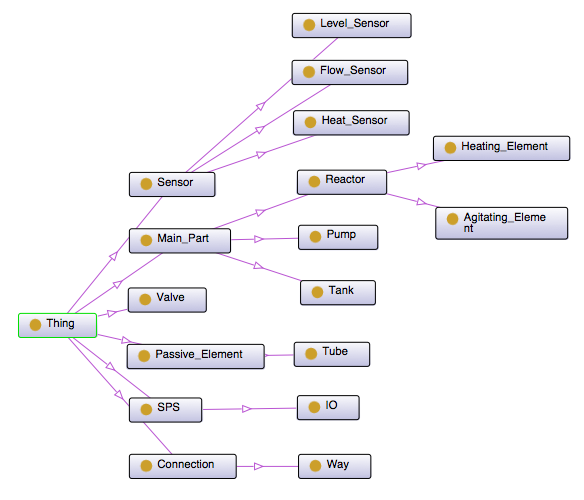
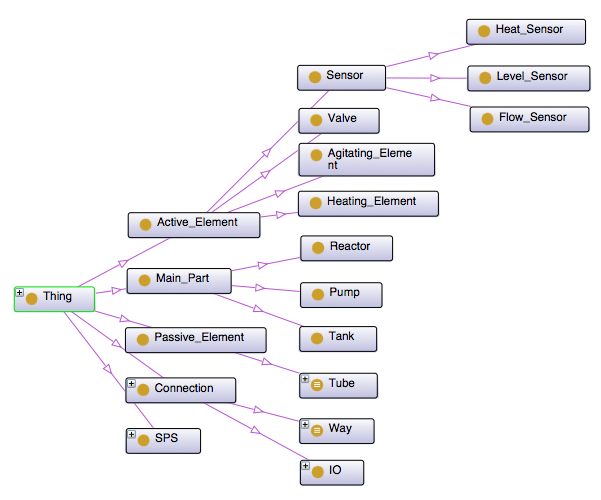
chapter 4 ontologie update

diff --git a/tex/chapter4.tex b/tex/chapter4.tex
@@ -151,38 +151,76 @@ Phase 3 Funktionale Elemente\\
 	Der nächste schritt war es die nicht funktionalen Grafikelemente durch Buttons in Form der gewünschten Elemente zu ersetzten.\\
 \\
 \textbf{Rezepterstellung}\\
+%todo Rezeperstellung
 
 \section{Ontology}
 Nachdem die Evaluierung der wichtigsten Aspekte im Kapitel Ontologie der Chargenprozessanlage in Hinsicht auf eine automatisierte Codegenerierung durchgeführt wurden, behandelt dieses Kapitel den Werdegang der Ontologie vom Ersten bis hin zum Finalem Design.\\
 \\
 Das Ziel der Ontologie ist es, die im laufe dieses Projekts aufgebaute Anlage in einer Art und Weise abbilden zu können, die es erlaubt daraus eine automatisierte Codegenerierung durchzuführen und dabei auf einem Abstraktionslevel zu bleiben um einen Großteil an in der Industrie vorkommenden Produktionsanlagen abbilden zu können.\\
 \\
-Da es den Rahmen dieser Arbeit sprengen würde, auf jeden einzelnen Gedankengang in der Erstellung der Ontologie einzugehen, werden nur die großen Revisionen der Ontologie genauer beschrieben.
+Da es den Rahmen dieser Arbeit sprengen würde, auf jeden einzelnen Gedankengang in der Erstellung der Ontologie einzugehen, werden nur die großen Revisionen der Ontologie genauer beschrieben.\\
+\\
+Zu aller erste werden alle Bauteile der Anlage in Kategorien eingeteilt.\\
+Tanks, Reaktoren und Pumpen sind die Hauptelemente dieser Anlage und werden deswegen auch in einer Gruppe zusammengefasst. Neben ihnen gibt es eine Gruppe an Bauteilen die etwas tun, hierzu gehören die Ventile, Sensoren, Heiz- und Rührstäbe. Die restlichen Elemente der Anlage sind Statische Objekte die einen Nutzen besitzen, jedoch keine Arbeit erledigen, daher fallen diese zusammen unter die Kategorie von Passiven Elementen. Zu diesem Zeitpunkt sind dies nur die Rohre.\\
+Eine Ausnahme dieser Gruppen ist die SPS welche etwas tut, daher an sich in Kategorie 2 Fallen würde, aber nicht direkt Teil der Anlage ist und daher auch als einzelstehendes Objekt einen Platz in der Ontologie findet.
+
+\begin{figure}[hbt!]
+  \centering
+  \includegraphics[width=0.6\textwidth]{graphics/implementation/Ontology_v1}
+  \caption{Erste Version der Ontologie}
+\end{figure}
+
+Verbindungen zwischen 2 Klassen werden normalerweise mit einer Objekt Eigenschaft dargestellt, da eine Verbindung zwischen 2 Bauteilen aber eine andere Information als die Verbindung zwischen einer SPS und einem Bauteil enthält, gibt es die Kategorie Connections mit den Klassen “Weg” und “IO”.
+
+Kurz zusammengefasst können die Kategorien wie folgt beschreiben werden\\
+Main\_Part:\\
+	Dies sind alle Elemente die subjektiv als Hauptelemente bezeichnet werden.\\
+Active\_Element:\\
+	Jene Bauteile die etwas tun - Aktuatoren, Sensoren\\
+Passive\_Elements:\\
+	In der Anlage verbaute teile die keine Arbeit verrichten.\\ 
+Connection:\\
+	Verbindungsarten zwischen den einzelnen Bauteilen\\
+\\
+Mit dieser Ontologie ist es grundsätzlich möglich die Anlage aus Kapitel 4.2 abzubilden, jedoch finden sich einige Inkonsistenzen die die automatisierte Codegenerierung erschweren wenn nicht sogar unmöglich machen würden.\\
+\\
+%Die nächste Version befasst sich damit die einzelnen Kategorien genauer zu bestimmen, um einen Konsistenten zustand in die Ontologie zu bringen, gleichzeitig aber auch eine Struktur zu bilden die eine automatische Codegenerierung erleichtert.
+Nun wird die erste Version der Ontologie, in Hinsicht einer automatisierten Codegenerierung, evaluiert und dementsprechend umgebaut.\\
+Die Kategorien werden im nächsten Schritt genauer definiert um eine Konsistenz in die Ontologie zu bringen.\\
+\\
+Die definition von \glqq Active\_Element\grqq\space ist in Grunde richtig, nur beinhaltet diese die SPS was nicht der Fall sein soll. Daher wird die Definition auf \glqq Elemente die mit einer SPS (I/O) verbunden sind\grqq\space geändert. In diese Kategorie fallen nun die Elemente der Ersten Version ohne SPS und auch die Pumpe hinein.\\
+\\
+Die nächste Kategorie die bearbeitet wird ist \glqq Main Part\grqq\space. Die Definition in dieser Gruppe ist noch sehr grob definiert und lässt eine Subjektive Gruppierung zu, daher muss die Definition von Grund auf geändert werden ohne Bauteile die zurzeit Enthalten sind auszuschließen. Die passende Interpretation ist \glqq Elemente mit mindestens 2 Ein bzw. Ausgängen\grqq\space. Durch diese Änderung fallen nun auch die Ventile in die Gruppe \glqq Main Part\grqq\space.\\
+\\
+Um Ein-/Ausgänge besser zu definieren wird die Gruppe \glqq Connection\grqq\space verändert. Die Klasse \glqq I/O\grqq\space wird heraus genommen da man diese genauer beschreiben muss. Dadurch enthält \glqq Connection\grqq\space nur noch Verbindungen zwischen Bauteilen, welche nur noch Ein-/Ausgänge sein können.\\
+\\
+Die Kategorie \glqq Passive Element\grqq\space wird komplett entfernt da sie keine Relevanten Information enthält.
 
 \begin{figure}[hbt!]
   \centering
   \includegraphics[width=0.6\textwidth]{graphics/implementation/Ontology_v2}
-  \caption{Erste Revision der Ontologie}
+  \caption{Erste Überarbeitung der Ontologie}
 \end{figure}
 
-In der Anlage gibt es verschiedene Arten von Bauteilen: Sensoren, Aktuatoren, Tanks, etc., daher haben wir diese in der Ontologie in folgende Kategorien unterteilt.\\
-
-Main\_Part: Dies sind alle Elemente die subjektiv als Hauptelemente bezeichnet sind.\\
-Active\_Element: Jene Bauteile die etwas tun - Aktuatoren, Sensoren\\
-Connection: Verbindungen zwischen den einzelnen Bauteilen\\
-Passive\_Elements: In der Anlage verbaute teile die keine Arbeit verrichten.\\ 
+\textbf{Object Properties}\\
 \\
-Mit dieser Ontologie ist es grundsätzlich möglich die Anlage aus Kapitel 4.2 abzubilden, jedoch finden sich einige Inkonsistenzen die die automatisierte Codegenerierung erschweren wenn nicht sogar unmöglich machen würden. 
-
-\begin{figure}[hbt!]
-  \centering
-  \includegraphics[width=0.6\textwidth]{graphics/implementation/Ontology_v4}
-  \caption{Dritte Revision der Ontologie}
-\end{figure}
-
-
-
+Nachdem die Klassenstruktur feststeht, müssen als nächstes die Relationen bestimmt werden.
+\begin{table}[h]
+\centering
+\begin{tabular}{l|l|l}
+\textbf{Name} & \textbf{Domain} & \textbf{Range} \\ \hline
+hasActiveE    & Input, Output   & Active\_Element \\ \hline
+hasConnection & MainPart        & Connection      \\ \hline
+hasIO         & Thing           & Input, Output   \\ \hline
+includes      & Tank            & Active\_Element \\ \hline
+isConnectedTo & Connection      & Connection                            
+\end{tabular}
+\end{table}
+\\
+\textbf{Data Properties}\\
+TODO
 \section{Aktivitätsdiagramm}
+TODO
 \section{Codegenerierung}
 
 TODO

diff --git a/tex/chapter2.tex b/tex/chapter2.tex
@@ -435,8 +435,14 @@ Wie in Abbildung~\ref{fig:Ontology_Aufbau} zu erkennen erhält man so die Strukt
 Dies ermöglicht ein Modell aufzubauen das nicht nur die Struktur abbilden kann, sondern komplexe Netzwerke zu konstruieren.\\
 \\
 \noindent \textbf{Objekt Eigenschaften}\\
-Objekt Eigenschaften werden benötigt um Relationen zwischen den einzelnen Objekten genauer zu beschreiben.\\ 
-Wie kann man einen Tank mit einer Pumpe verbinden? Genau dafür gibt es Objekt Eigenschaften. Für diesen zweck kann man eine Eigenschaft mit dem Namen 'verbunden\_mit' erstellen, und diese dann dem Tank beifügen. So ergibt sich die Relation: Tank verbunden\_mit Pumpe.\\
+Objekt Eigenschaften werden benötigt um Relationen zwischen den einzelnen Objekten genauer zu beschreiben.\\
+\\
+Allgemeine Definition:\\
+\textbf{Domain} -> \textbf{Name} -> \textbf{Range}\\
+KlasseA -> Eigenschaft -> KlasseB\\
+\\
+Wie kann man einen Tank mit einer Pumpe verbinden? Genau dafür gibt es Objekt Eigenschaften. Für diesen zweck kann man eine Eigenschaft mit dem Namen 'verbunden\_mit' erstellen, und diese dann dem Tank beifügen. So ergibt sich die Relation:\\
+Tank -> verbunden\_mit -> Pumpe\\
 \\
 \textbf{Daten Eigenschaften}\\
 Daten Eigenschaften werden benötigt um Objekte genauer zu beschreiben. 
